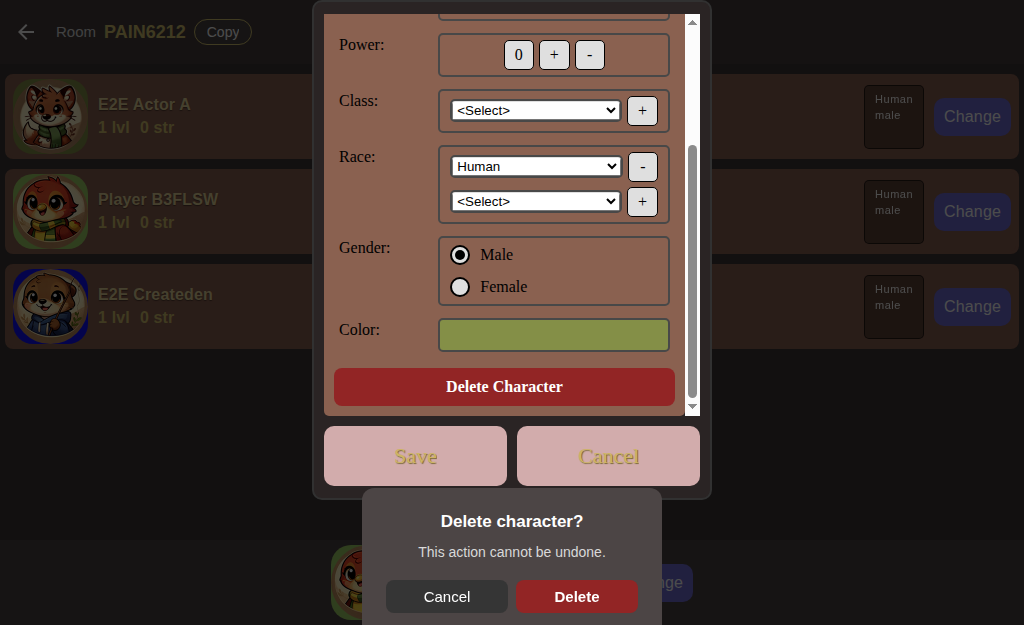
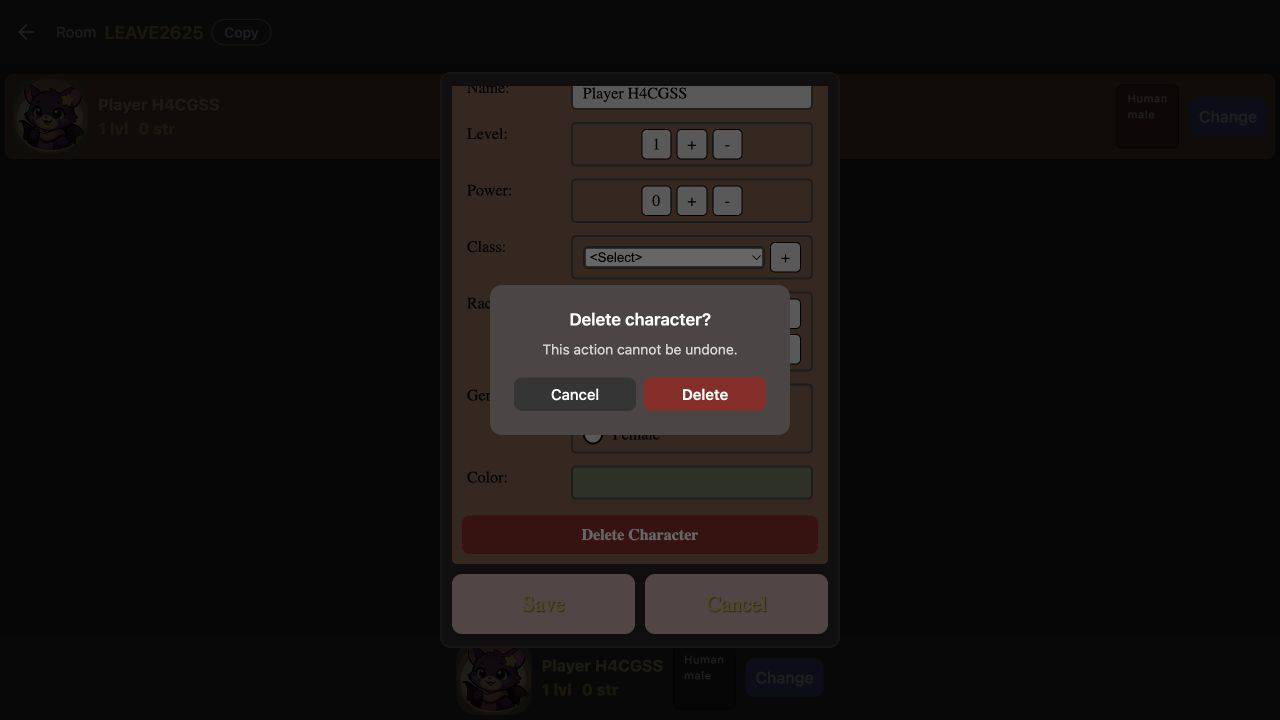
fix(frontend): position web delete confirmation overlay

diff --git a/frontend/__tests__/app/munchkin/modal-change-caracter.test.tsx b/frontend/__tests__/app/munchkin/modal-change-caracter.test.tsx
@@ -1,6 +1,6 @@
 import React from 'react';
 import TestRenderer, { act } from 'react-test-renderer';
-import { Modal, Platform, Text, TextInput, TouchableOpacity } from 'react-native';
+import { Modal, Platform, Pressable, Text, TextInput, TouchableOpacity } from 'react-native';
 import { describe, expect, it, vi } from 'vitest';
 
 import ChangeCharacterModal from '../../../app/munchkin/modal-change-caracter';
@@ -121,6 +121,12 @@ describe('ChangeCharacterModal', () => {
     const confirmButton = findConfirmButton(renderer!);
     expect(confirmButton).toBeTruthy();
     expect(confirmButton!.props.accessibilityLabel).toBeUndefined();
+    expect(
+      renderer!.root.findAllByType(Pressable).some((pressable: any) =>
+        Array.isArray(pressable.props.style) &&
+        pressable.props.style.some((style: any) => style?.position === 'absolute')
+      )
+    ).toBe(true);
     expect(
       renderer!.root.findAllByType(Modal).filter((modal: any) => modal.props.visible === true)
     ).toHaveLength(0);

diff --git a/frontend/components/ConfirmDialog.tsx b/frontend/components/ConfirmDialog.tsx
@@ -55,7 +55,11 @@ export default function ConfirmDialog({
   }
 
   const dialogContent = visible ? (
-    <Pressable accessible={false} style={styles.overlay} onPress={onCancel}>
+    <Pressable
+      accessible={false}
+      style={insideModal ? [styles.overlay, StyleSheet.absoluteFill] : styles.overlay}
+      onPress={onCancel}
+    >
       <Pressable accessible={false} style={styles.dialog} onPress={() => { }}>
         <Text accessible testID="confirm-dialog-title" style={styles.title}>{title}</Text>
         <Text style={styles.message}>{message}</Text>
